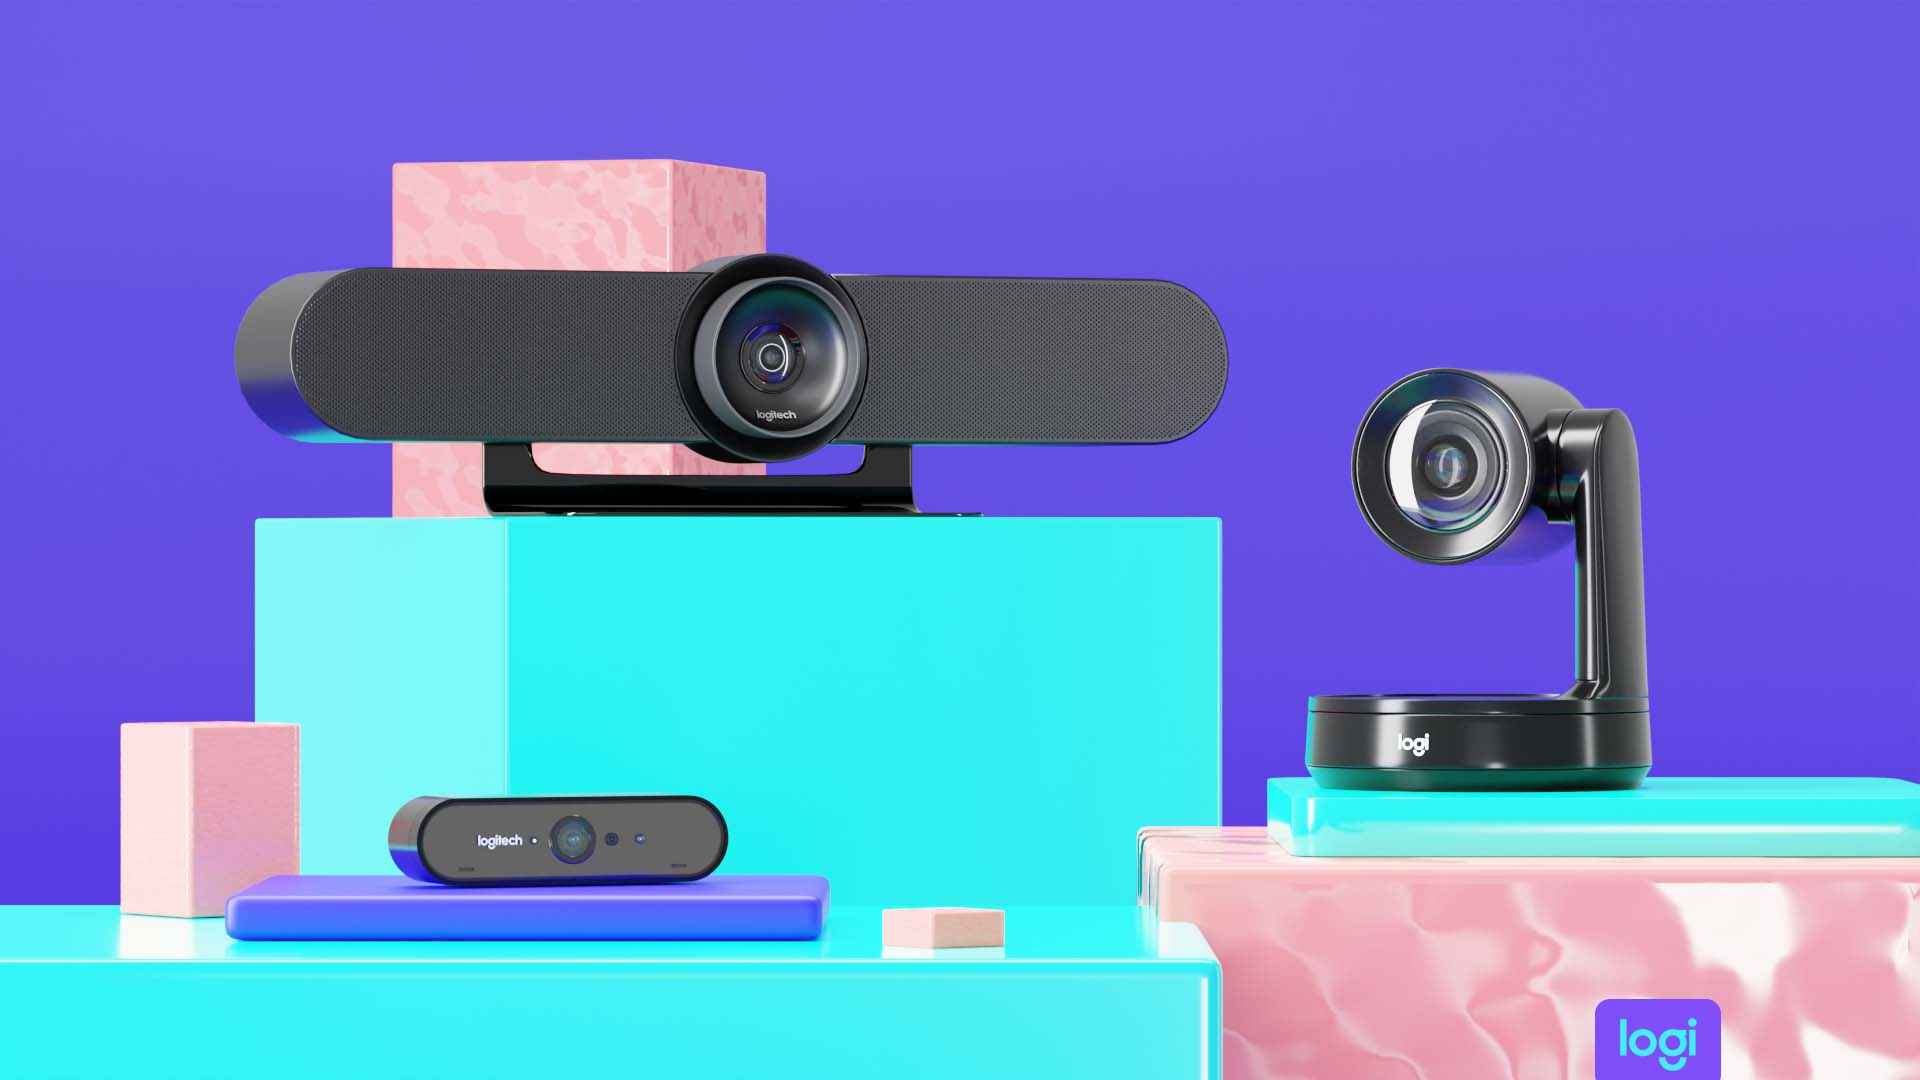
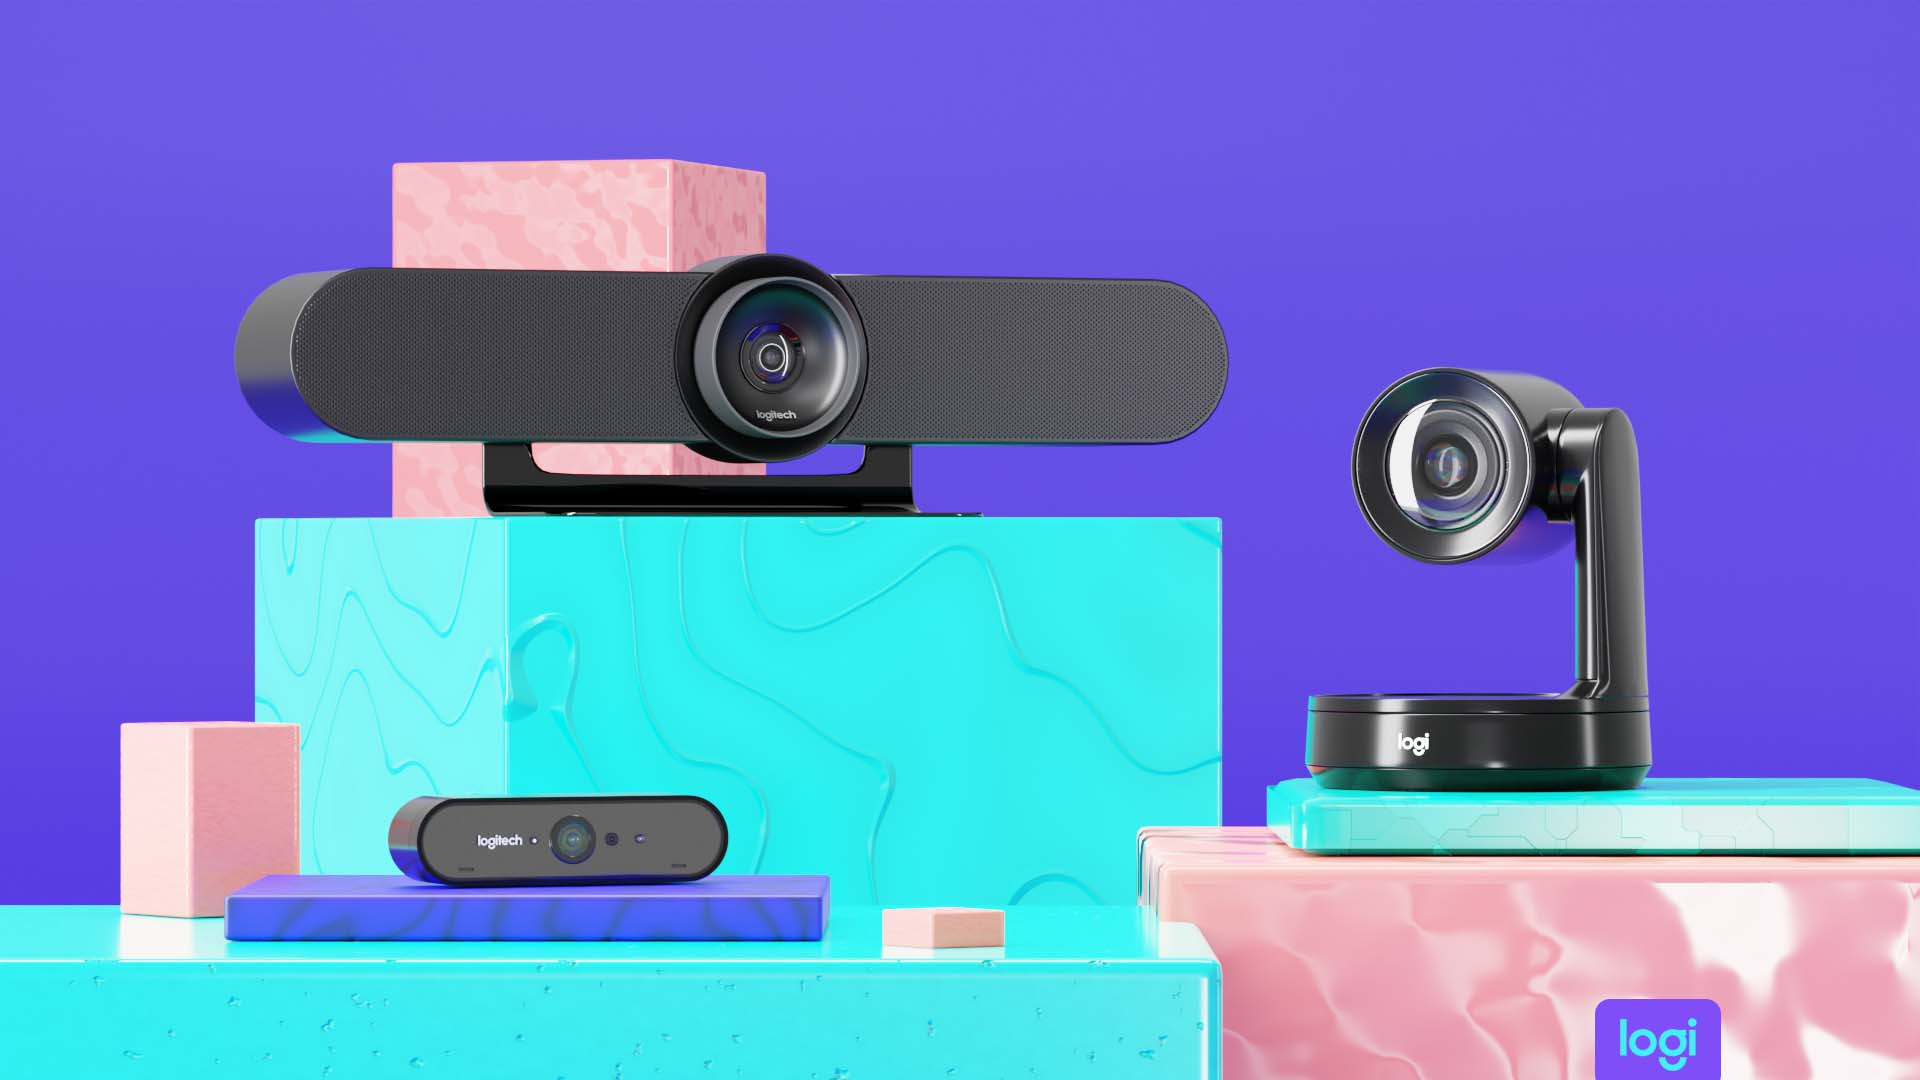
1245152

diff --git a/logi.html b/logi.html
@@ -36,6 +36,8 @@
                 <div id="halfie"><img src="images/logi/logi5.jpg" id="logotexth"></div>
                 <div id="halfie"><img src="images/logi/logi6.jpg" id="logotexth"></div>
                 <div id="fullbar"></div> 
+                <img src="images/logi/logi2.jpg" id="logotext">
+                <div id="fullbar"></div> 
                 <img src="images/logi/logi7.jpg" id="logotext">
                 <div id="fullbar"></div>  
                     
